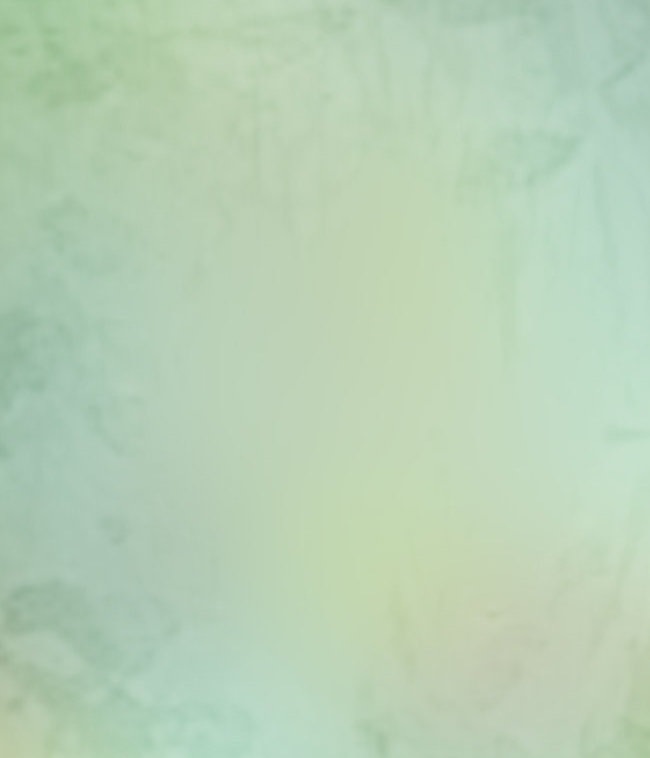
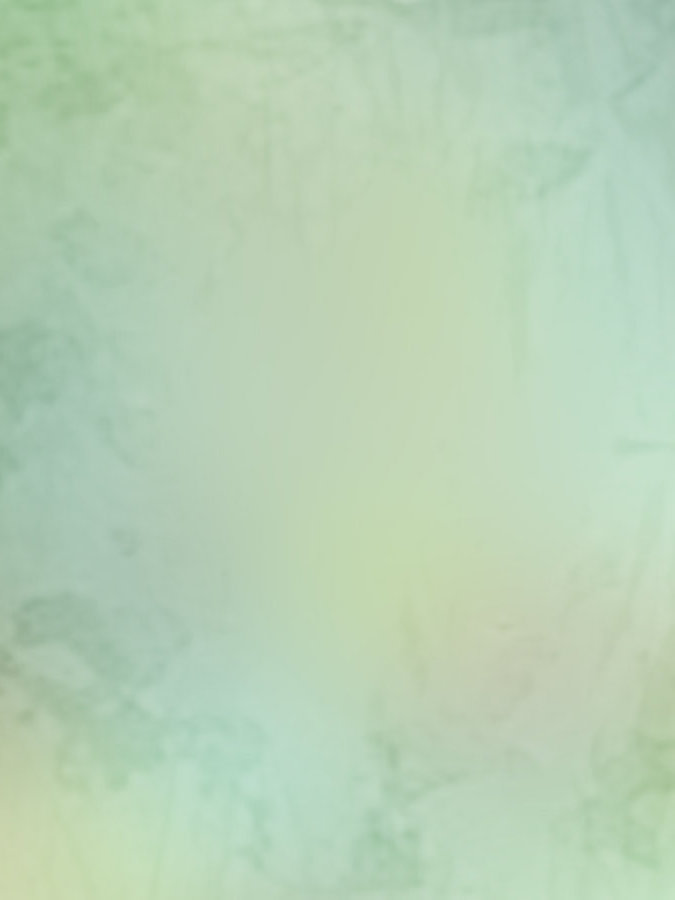
Attempt at fixing mobile animation

diff --git a/js/animation.js b/js/animation.js
@@ -25,8 +25,8 @@ $(function(){
 			e.preventDefault();
 			$('.bridesmaids', $bridalParty).hide();
 			$('.groomsmen', $bridalParty).show();
-			$('.cover-left', $bridalParty).animate({ left: '-650px' }, ANIMATION_SPEED);
-			$('.cover-right', $bridalParty).animate({ right: '-650px' }, ANIMATION_SPEED);
+			$('.cover-left', $bridalParty).animate({ left: '-100%' }, ANIMATION_SPEED);
+			$('.cover-right', $bridalParty).animate({ left: '100%' }, ANIMATION_SPEED);
 			// $('.icn-bridal-party', $bridalParty).animate({ bottom: '-140px' }, ANIMATION_SPEED, function(){
 			// 	$(this).animate({ bottom: '-338px' }, ANIMATION_SPEED, function(){
 			// 		$('.cover-left', $bridalParty).animate({ left: '-650px' }, ANIMATION_SPEED);
@@ -38,8 +38,8 @@ $(function(){
 			e.preventDefault();
 			$('.groomsmen', $bridalParty).hide();
 			$('.bridesmaids', $bridalParty).show();
-			$('.cover-left', $bridalParty).animate({ left: '-650px' }, ANIMATION_SPEED);
-			$('.cover-right', $bridalParty).animate({ right: '-650px' }, ANIMATION_SPEED);
+			$('.cover-left', $bridalParty).animate({ left: '-100%' }, ANIMATION_SPEED);
+			$('.cover-right', $bridalParty).animate({ left: '100%' }, ANIMATION_SPEED);
 			$('.back', $bridalParty).animate({ bottom: '-130px'}, ANIMATION_SPEED);
 			// $('.icn-bridal-party', $bridalParty).animate({ bottom: '-140px' }, ANIMATION_SPEED, function(){
 			// 	$(this).animate({ bottom: '-338px' }, ANIMATION_SPEED, function(){
@@ -53,7 +53,7 @@ $(function(){
 			$('.back', $bridalParty).animate({ bottom: '-120px' }, ANIMATION_SPEED, function(){
 				$(this).animate({ bottom: '-226px' }, ANIMATION_SPEED, function(){
 					$('.cover-left', $bridalParty).animate({ left: '0px' }, ANIMATION_SPEED);
-					$('.cover-right', $bridalParty).animate({ right: '0px' }, ANIMATION_SPEED);
+					$('.cover-right', $bridalParty).animate({ left: '50%' }, ANIMATION_SPEED);
 					// $('.icn-bridal-party', $bridalParty).animate({ bottom: '-150px' }, ANIMATION_SPEED, function(){
 					// 	$('.bridesmaides, .groomsmen', $bridalParty).hide();
 					// });

diff --git a/css/main.css b/css/main.css
@@ -89,16 +89,21 @@ background: url(../img/James-6-edited.jpg)  no-repeat center center fixed;
   height: 105vh;
 /*  top: 0;*/
   box-shadow: 0px 0px 15px 0px black;
+  -webkit-background-size: cover;
+    -moz-background-size: cover;
+    -o-background-size: cover;
+    background-size: cover;
 }
 
 #bridal-party .cover-left {
   left: 0;
-  background: url(../img/bridal-party-left.jpg) no-repeat left top;
+  background: url(../img/bridal-party-left.jpg) left top;
   z-index: 1;
 }
+
 #bridal-party .cover-right {
-  right:0;
-  background: url(../img/bridal-party-right.jpg) no-repeat left top;
+  left: 50%;
+  background: url(../img/bridal-party-right.jpg) left top;
   z-index: 2;
 }
 
